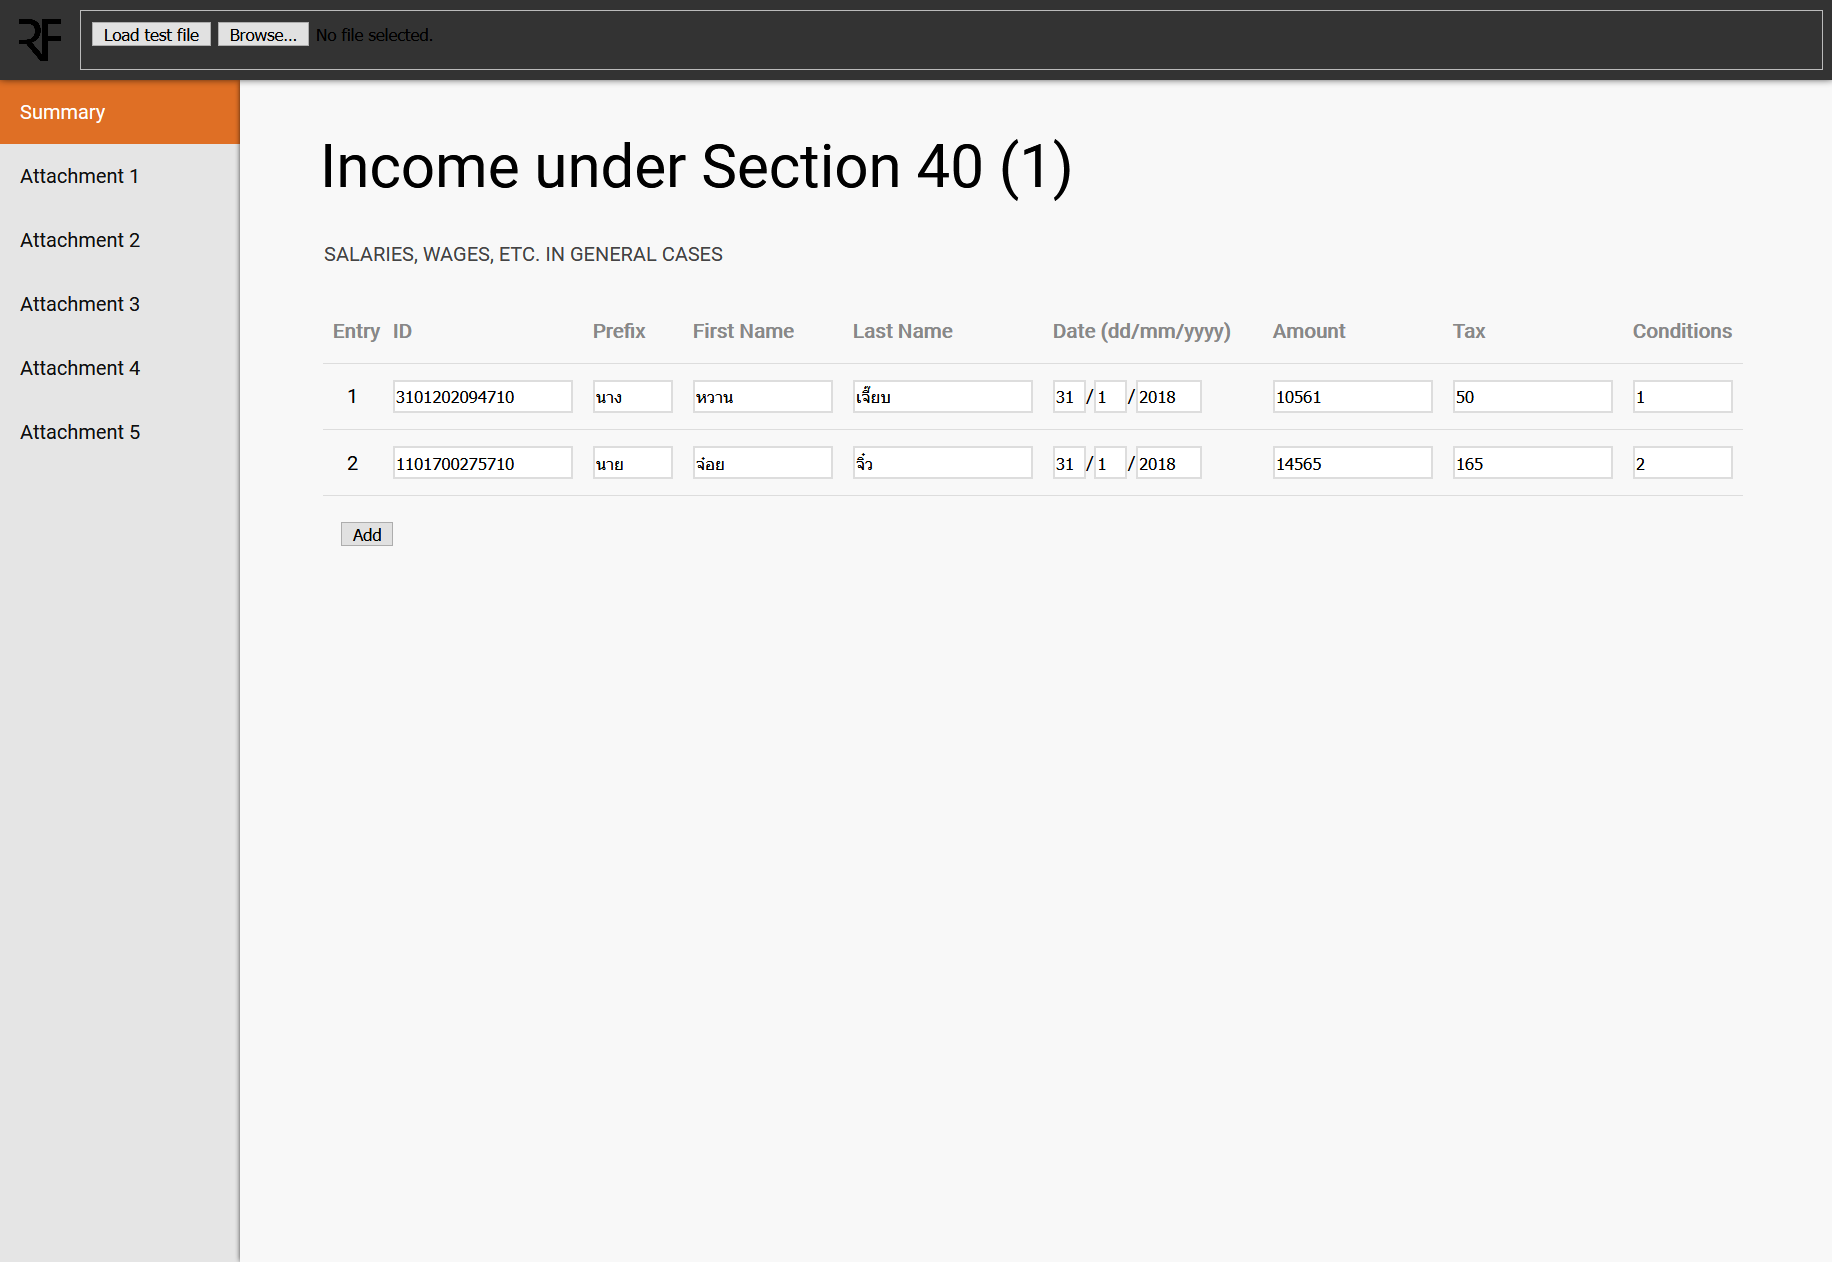
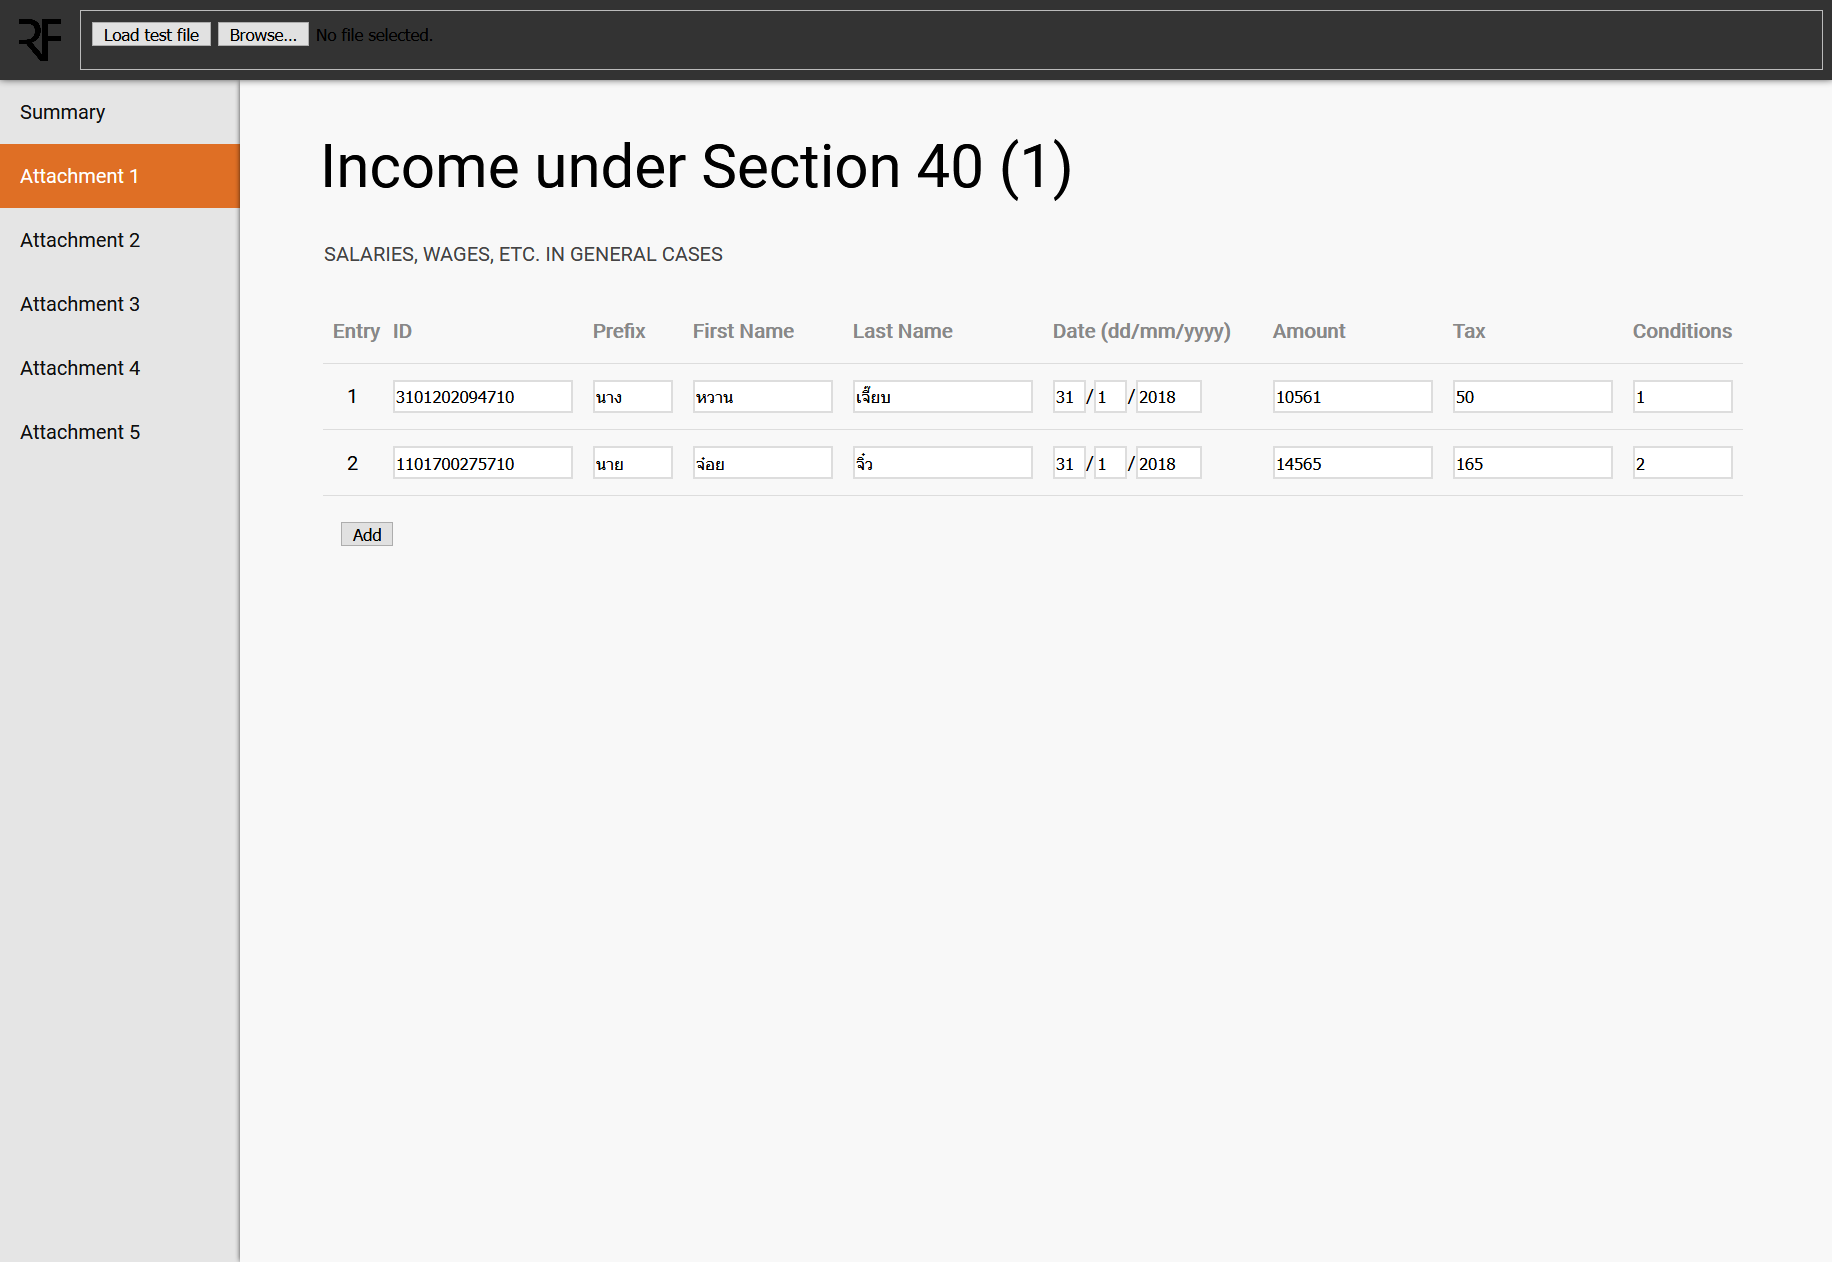
Fix navbar highlighting

Changed region(s): [[0.0, 0.0618, 0.1556, 0.1854]]

diff --git a/index.html b/index.html
@@ -4,7 +4,6 @@
 <head>
     <link rel="stylesheet" href="/css/index.css">
     <link rel="stylesheet" href="https://fonts.googleapis.com/css?family=Roboto">
-    <script src="/js/jszip.js"></script>
     <script src="/js/display.js"></script>
     <script src="/js/rdcondition.js"></script>
     <script src="/js/rdconverter.js"></script>
@@ -34,22 +33,22 @@
         <div class="sidebar">
             <ul>
                 <li>
-                    <a class="active" href="#summary" onclick="onlyShow(-1);">Summary</a>
+                    <a id="nav_0" class="active" href="#summary" onclick="onlyShow(-1);">Summary</a>
                 </li>
                 <li>
-                    <a href="#attach_1" onclick="onlyShow(0);">Attachment 1</a>
+                    <a id="nav_1" href="#attach_1" onclick="onlyShow(0);">Attachment 1</a>
                 </li>
                 <li>
-                    <a href="#attach_2" onclick="onlyShow(1);">Attachment 2</a>
+                    <a id="nav_2" href="#attach_2" onclick="onlyShow(1);">Attachment 2</a>
                 </li>
                 <li>
-                    <a href="#attach_3" onclick="onlyShow(2);">Attachment 3</a>
+                    <a id="nav_3" href="#attach_3" onclick="onlyShow(2);">Attachment 3</a>
                 </li>
                 <li>
-                    <a href="#attach_4" onclick="onlyShow(3);">Attachment 4</a>
+                    <a id="nav_4" href="#attach_4" onclick="onlyShow(3);">Attachment 4</a>
                 </li>
                 <li>
-                    <a href="#attach_5" onclick="onlyShow(4);">Attachment 5</a>
+                    <a id="nav_5" href="#attach_5" onclick="onlyShow(4);">Attachment 5</a>
                 </li>
             </ul>
         </div>

diff --git a/ts/display.ts b/ts/display.ts
@@ -158,29 +158,46 @@ function onlyShow(page) {
             }
         }
     }
+    highlight(page + 1);
+}
+function highlight(idx: number): void {
+    for (let i = 0; i < 6; i++) {
+        if (i === idx) {
+            document.getElementById("nav_" + i).classList.add("active");
+        } else {
+            document.getElementById("nav_" + i).classList.remove("active");
+        }
+    }
 }
 function navigate() {
     switch (window.location.hash) {
         case "#attach_1":
             onlyShow(0);
+            highlight(1);
             break;
         case "#attach_2":
             onlyShow(1);
+            highlight(2);
             break;
         case "#attach_3":
             onlyShow(2);
+            highlight(3);
             break;
         case "#attach_4":
             onlyShow(3);
+            highlight(4);
             break;
         case "#attach_5":
             onlyShow(4);
+            highlight(5);
             break;
         case "#summary":
             onlyShow(-1);
+            highlight(0);
             break;
         default:
             onlyShow(-1);
+            highlight(0);
             break;
     }
 }

diff --git a/README.md b/README.md
@@ -30,3 +30,4 @@ If your browser version is newer than early 2016, it will probably work.
 
 <img src="demo/summary.png"/>
 <img src="demo/at1.png"/>
+<img src="demo/at2.png"/>
